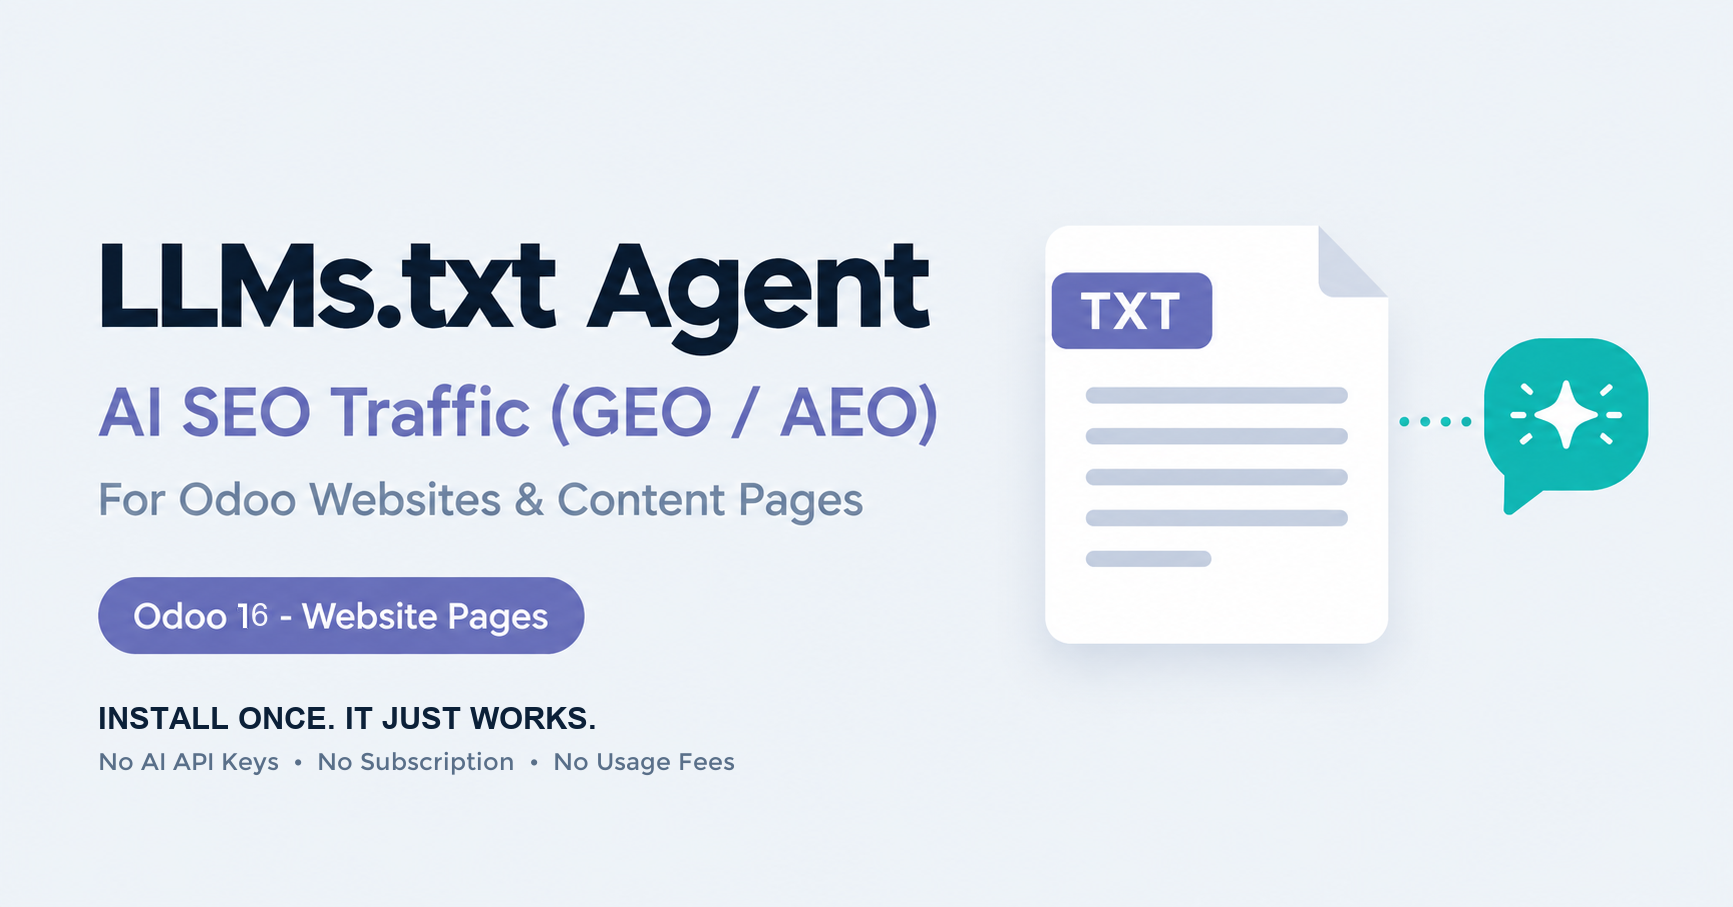
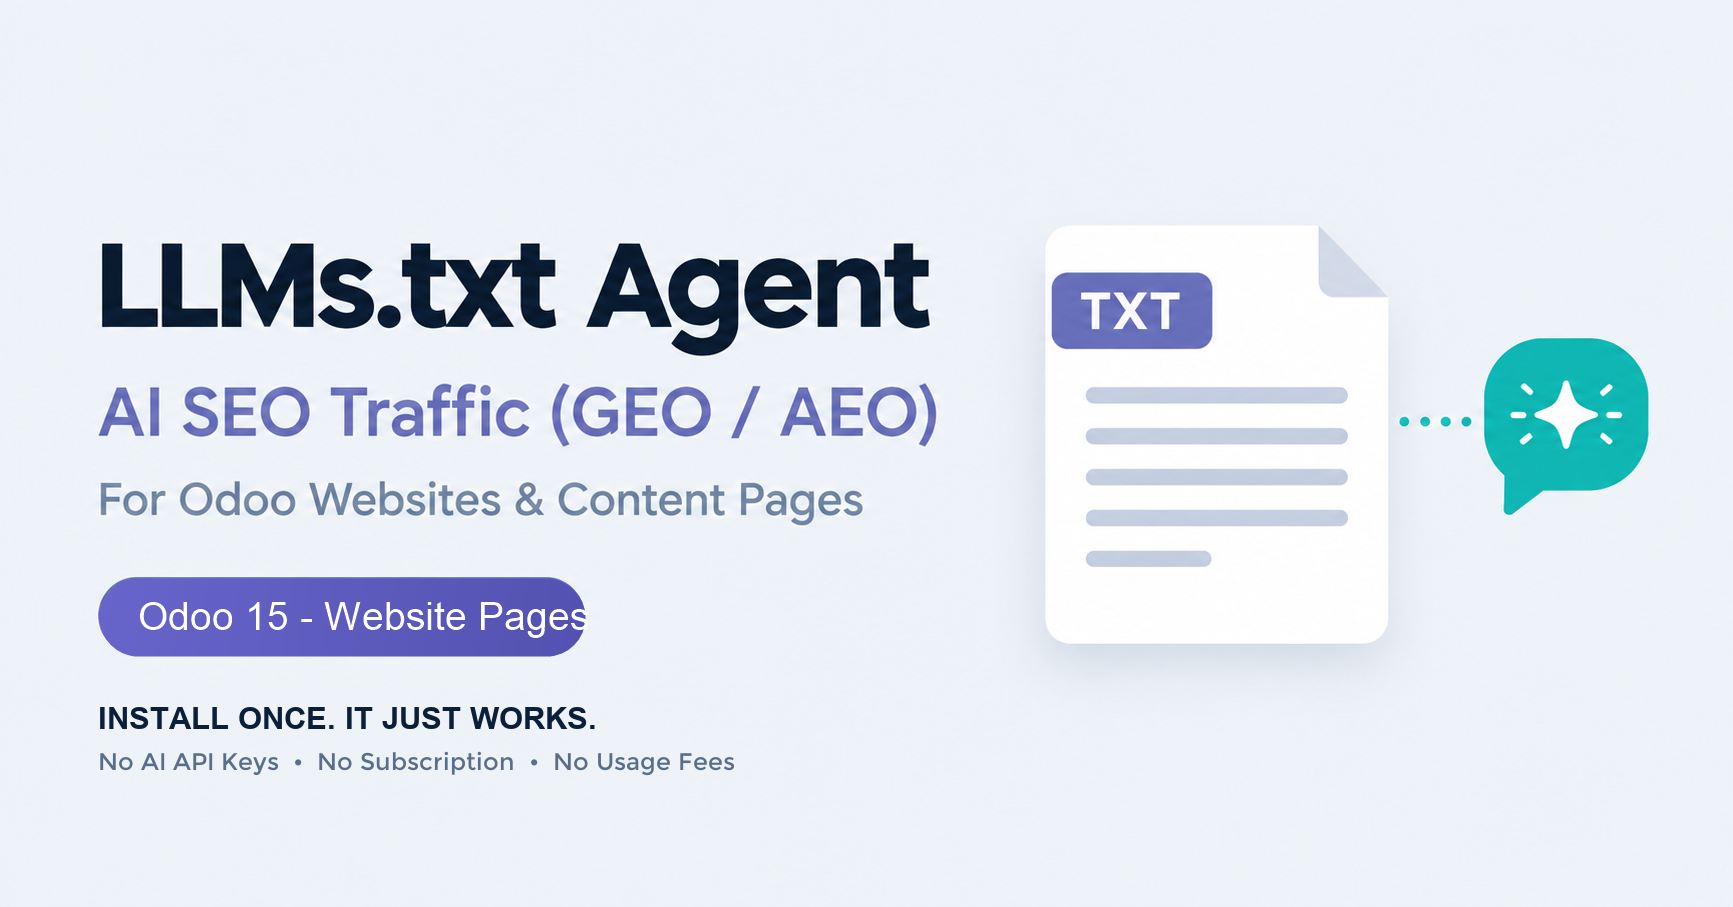
Add Odoo 15 compatibility

Changed region(s): [[0.0623, 0.6174, 0.3428, 0.7409]]

diff --git a/llms_txt_agent/static/description/index.html b/llms_txt_agent/static/description/index.html
@@ -19,7 +19,7 @@
             <span class="badge bg-primary px-3 py-2 fs-6 me-1">GEO</span>
             <span class="badge bg-primary px-3 py-2 fs-6 me-1">AEO</span>
             <span class="badge bg-info px-3 py-2 fs-6 me-1">llms.txt Standard</span>
-            <span class="badge bg-secondary px-3 py-2 fs-6 me-1">Odoo 16 &mdash; Website Pages</span>
+            <span class="badge bg-secondary px-3 py-2 fs-6 me-1">Odoo 15 &mdash; Website Pages</span>
             <span class="badge bg-dark px-3 py-2 fs-6">By Asad Ali &mdash; Softosmith</span>
         </div>
 
@@ -418,7 +418,7 @@
                 <tbody>
                     <tr>
                         <td class="fw-bold" style="width: 34%;">Odoo versions</td>
-                        <td>16.0 &mdash; this listing is the Odoo 16 branch, and Community
+                        <td>15.0 &mdash; this listing is the Odoo 15 branch, and Community
                             is its target. The module ships no
                             Enterprise-only code and needs no Enterprise features, but
                             Enterprise editions have not been separately verified.</td>

diff --git a/llms_txt_agent/models/res_website.py b/llms_txt_agent/models/res_website.py
@@ -130,7 +130,7 @@ class Website(models.Model):
 
         Core precedent: ``website_page.py`` treats a page as publicly readable
         when it is published, ``website_indexed``, not password/signed-in-only
-        and passes its group check (``odoo16/addons/website/models/website_page.py:223-240``).
+        and passes its group check.
 
         ``visibility`` is written as an *allow-list* of "public" rather than as a
         deny-list of the three bad values, so a visibility mode added by a later
@@ -273,63 +273,21 @@ class Website(models.Model):
         return '\n\n---\n\n'.join(docs) + '\n'
 
     def _llms_cache_read(self, field):
-        """Read a cache column under *exactly* the language being served.
+        """Read the cache value for exactly the language being served.
 
-        This is the part QA-11 hinged on.  ``llm_txt_cache`` is
-        ``translate=True``, i.e. one jsonb column keyed by language code, and a
-        normal ORM read of a translated field **falls back to en_US** when the
-        current key is missing -- ``Field.get_translation_fallback_langs``
-        (``odoo16/odoo/fields.py:1799-1806``) returns ``('fr_FR', 'en_US')`` for
-        French, and the read walks that chain.  So ``if not
-        self.llm_txt_cache`` was never a per-language cold check: a French
-        crawler got a *cache hit* on the English document and regenerated
-        nothing, forever.  The question has to be asked of the one key the
-        response is about to serve.
-
-        ``field._get_stored_translations()`` is used rather than a hand-written
-        ``SELECT col->>%s`` because it **flushes the record first** -- the helper
-        calls ``record.flush_recordset([self.name])`` before its own SELECT
-        (``odoo16/odoo/fields.py:1783-1797``), and raw SQL does not, so an
-        unflushed read would serve a document from before the last save.
+        Odoo 15 stores translated field values in ``ir.translation`` rather than
+        the JSONB columns introduced in Odoo 16. Reading in the validated language
+        context lets the ORM resolve the matching translation normally.
         """
         self.ensure_one()
         lang = self._llms_lang_code()
-        translations = self._fields[field]._get_stored_translations(self.sudo()) or {}
-        return translations.get(lang) or False
+        return self.sudo().with_context(lang=lang)[field] or False
 
     def _llms_cache_store(self, field, content):
-        """Store one language's document under exactly its own jsonb key.
-
-        A plain ORM write cannot do that on this branch.  When the value being
-        merged carries no ``en_US`` key, ``BaseModel._write()`` supplies one
-        itself -- it prepends ``{'en_US': <first written value>}`` to the column
-        (``odoo16/odoo/models.py:4551-4560``), which is meant to seed the
-        fallback language on a fresh record.  Applied to a cold cache column it
-        files the *French* document under ``en_US`` as well, and the next English
-        crawler then takes a cache hit on French text -- QA-11 with the two
-        languages swapped, and invisible in single-language testing because the
-        English pass always runs first by accident.
-
-        ``update_field_translations()`` takes the whole language map, so the
-        English key is carried along instead of being invented from whatever the
-        request happened to generate (``odoo16/odoo/models.py:3603-3610``).  An
-        empty string is what a language that has never been generated looks like
-        here: ``_llms_cache_read()`` reads it back as cold, and the next crawler
-        for that language regenerates properly.
-        """
+        """Store one language's cache through Odoo 15's translation ORM."""
         self.ensure_one()
-        sudo = self.sudo()
         lang = self.env.context.get('lang') or LLM_FALLBACK_LANG
-        stored = self._fields[field]._get_stored_translations(sudo) or {}
-        served = set(self._llms_cache_languages())
-        translations = {
-            code: value
-            for code, value in stored.items()
-            if code in served and isinstance(value, str)
-        }
-        translations.setdefault('en_US', '')
-        translations[lang] = content
-        sudo.update_field_translations(field, translations)
+        self.sudo().with_context(lang=lang).write({field: content})
 
     def get_llms_txt_content(self):
         """Returns llms.txt string, utilizing cache when enabled.
@@ -409,9 +367,8 @@ class Website(models.Model):
         -- and on a multi-language site that is the whole point of the cache.
 
         ``_llms_cache_languages()`` is a set, so the pass order is otherwise
-        arbitrary; English goes first because it is the key Odoo 16's merge
-        invents when a write lands on a column without one (``_llms_cache_store``
-        pins it, this just keeps the two in agreement).
+        arbitrary; English goes first because it is Odoo's source language and
+        other values are stored as translations in Odoo 15.
         """
         for website in self:
             languages = sorted(website._llms_cache_languages(),
@@ -439,8 +396,7 @@ class Website(models.Model):
                 # runs on the transient settings record, whose related field was
                 # read once when the form was built and never re-read.  A
                 # display_notification action returns ``params['next']`` to the
-                # action service (odoo16/addons/web/static/src/webclient/actions/
-                # client_actions.js:25), so this reloads the screen after the
+                # action service, so this reloads the screen after the
                 # toast instead of leaving the label stale.
                 'next': {
                     'type': 'ir.actions.client',
@@ -508,22 +464,17 @@ class Website(models.Model):
     def _llms_lang_code(self):
         """Resolve the one language code this website's document is served in.
 
-        QA-11 / QA-24.  Under HTTP the context language already *is* the
-        negotiated one -- ``http_routing`` puts ``request.lang`` into the context
-        in ``_frontend_pre_dispatch()`` (``odoo16/addons/http_routing/models/ir_http.py:584-587``),
-        after trying the URL, the ``frontend_lang`` cookie, then the session
-        language derived from ``Accept-Language``.  So reading the context is
-        enough, and this model stays free of ``odoo.http``.
+        QA-11 / QA-24. Under HTTP the context language is already the negotiated
+        frontend language, so reading the context is enough and this model stays
+        free of ``odoo.http``.
 
         Every candidate is validated against *active* ``res.lang`` rows because
         ``Environment.lang`` raises UserError for an unknown code: without that
         check a crawler sending ``Accept-Language: de`` on a site that has no
         German would turn a 200 into a 500.
 
-        Odoo 16 has no ``Lang._get_code()``/``Lang._get_active_by()`` (those
-        helpers arrive in 18.0), and its ``Lang._lang_get()`` is not cached, so
-        the active-test search below is written against the ORM instead.  It is
-        the same question asked the same way: is this an active language?
+        Odoo 15 has no ``Lang._get_code()``/``Lang._get_active_by()`` helpers, so
+        the active-test search below is written against the ORM instead.
         """
         self.ensure_one()
         Lang = self.env['res.lang'].sudo()
@@ -557,30 +508,14 @@ class Website(models.Model):
         return sorted(codes)
 
     def _invalidate_llms_cache(self):
-        """Helper to clear cached documents when underlying content changes.
+        """Clear cached documents and their Odoo 15 translations.
 
-        The timestamp is cleared *with* the documents (FINDINGS D-E).  It used to
-        survive, so Settings kept showing a confident, seconds-old "Cache Last
-        Rebuilt" for a cache that no longer existed -- which is exactly how the
-        crawler outage stayed invisible to the site owner.
-
-        The sweep is per language (FINDINGS D-A, QA-11, and the same trap as
-        QA-38).  ``llm_txt_cache`` is ``translate=True``: one jsonb column keyed
-        by language code, so one write must not leave the languages nobody is
-        looking at holding a stale document forever.  On this branch the loop is
-        belt-and-braces -- a falsy value takes the early return in
-        ``Field.write`` (``odoo16/odoo/fields.py:1816-1819``) and NULLs the whole
-        column, so the first pass already clears every language -- but the
-        per-key merge that a truthy write goes through
-        (``odoo16/odoo/models.py:4551-4560``) is exactly why iterating, rather
-        than writing once in the current context, is the form that stays correct
-        wherever the column is updated key by key.
+        A falsy write clears the source value and all ``ir.translation`` rows for
+        these translated fields, so one write invalidates every language.
         """
-        sudo_websites = self.sudo()
-        for code in self._llms_cache_languages():
-            sudo_websites.with_context(lang=code).write({
-                'llm_txt_cache': False,
-                'llm_full_txt_cache': False,
-                'llm_page_cache': False,
-            })
-        sudo_websites.write({'llm_cache_last_updated': False})
+        self.sudo().write({
+            'llm_txt_cache': False,
+            'llm_full_txt_cache': False,
+            'llm_page_cache': False,
+            'llm_cache_last_updated': False,
+        })

diff --git a/llms_txt_agent/controllers/main.py b/llms_txt_agent/controllers/main.py
@@ -26,10 +26,8 @@ class WebsiteLlmController(http.Controller):
       place is precisely how "Cached (Daily)" ended up promising an hour, and how
       ``/llms.md`` ended up with no ``Cache-Control`` at all.
 
-    ``save_session=False`` on all five routes (QA-36): these documents are
-    anonymous, host-resolved and stateless, yet every crawler hit was getting a
-    fresh 7-day ``session_id`` cookie *and* a row in the session store -- see
-    ``tests/test_http_contract.py`` for the investigation.
+    ``save_session=False`` keeps anonymous crawler requests stateless and avoids
+    creating a session cookie for each document fetch.
     """
 
     # -- one place for the contract --------------------------------------
@@ -103,11 +101,11 @@ class WebsiteLlmController(http.Controller):
         lang = website._llms_lang_code()
         # ``/home.md`` names the homepage, and Odoo's homepage URL is a setting, not
         # the constant ``/``: core resolves it the same way, as
-        # ``website.homepage_url or '/'`` (``odoo16/addons/website/models/website_page.py:48-51``).
+        # ``website.homepage_id.url or '/'`` on Odoo 15.
         # Hardcoding ``/`` meant that on a site whose homepage is ``/welcome`` the
         # alias looked for a page at ``/`` -- and 404'd, or served some other
         # record that happened to own that URL.
-        page_url = ((website.homepage_url or '/') if page_path == 'home'
+        page_url = ((website.homepage_id.url or '/') if page_path == 'home'
                     else '/%s' % page_path.strip('/'))
         page = website._get_llm_exportable_page(page_url=page_url)
         if not page:

diff --git a/llms_txt_agent/models/llms_http.py b/llms_txt_agent/models/llms_http.py
@@ -188,11 +188,9 @@ def response_headers(content, content_type, cache_control, lang=None,
     if lang:
         # QA-24: the document is per-language, so a shared cache may not reuse it
         # across languages.  ``Content-Language`` describes what we sent.  ``Vary``
-        # has to name *both* headers because in Odoo 16 the language of a frontend
-        # response does not come from Accept-Language at all -- http_routing picks
-        # the URL prefix, then the ``frontend_lang`` cookie, then the context, then
-        # the website default (``odoo16/addons/http_routing/models/ir_http.py:399-402``
-        # and ``:443-448``), and nothing in core reads Accept-Language.  Varying on
+        # has to name *both* headers because frontend language resolution can use
+        # the URL prefix and the ``frontend_lang`` cookie, not only
+        # Accept-Language.  Varying on
         # it alone would still let a CDN answer a French crawler with the English
         # body it stored for the crawler before it, which is the exact outage QA-24
         # was written to prevent.

diff --git a/llms_txt_agent/__manifest__.py b/llms_txt_agent/__manifest__.py
@@ -4,7 +4,7 @@
 
 {
     'name': 'LLMs.txt Agent: Website Pages AI SEO (GEO/AEO for ChatGPT, Gemini, Perplexity)',
-    'version': '16.0.1.2.0',
+    'version': '15.0.1.2.0',
     'category': 'Website/Website',
     'summary': 'Publish your website pages as AI SEO / GEO / AEO llms.txt & Markdown that ChatGPT, Gemini and Perplexity can read.',
     'description': """
@@ -97,7 +97,6 @@ Developed by Asad Ali at Softosmith (https://softosmith.com).
         'data/ir_cron_data.xml',
         'views/res_config_settings_views.xml',
         'views/website_page_views.xml',
-        'views/website_page_properties_views.xml',
     ],
     'images': [
         'static/description/banner.png',

diff --git a/llms_txt_agent/models/__init__.py b/llms_txt_agent/models/__init__.py
@@ -7,6 +7,6 @@ from . import llms_http
 from . import res_website
 from . import res_config_settings
 from . import website_page
-# No website_page_properties on this branch: Odoo 16 has no website.page.properties
-# transient; its Page Properties dialog form is a website.page view.
+# Odoo 15's frontend Page Properties dialog is a legacy JavaScript/QWeb widget,
+# so these fields are configured from the backend website.page form instead.
 from . import ir_ui_view

diff --git a/llms_txt_agent/README.md b/llms_txt_agent/README.md
@@ -1,7 +1,7 @@
-# LLMs.txt Agent: Website Pages AI SEO for Odoo 16
+# LLMs.txt Agent: Website Pages AI SEO for Odoo 15
 
 [![License: OPL-1](https://img.shields.io/badge/License-OPL--1-blue.svg)](LICENSE)
-[![Odoo Version](https://img.shields.io/badge/Odoo-16.0-purple.svg)](https://www.odoo.com)
+[![Odoo Version](https://img.shields.io/badge/Odoo-15.0-purple.svg)](https://www.odoo.com)
 [![Developer](https://img.shields.io/badge/Developed%20By-Asad%20Ali%20%40%20Softosmith-orange.svg)](https://softosmith.com)
 
 Developed by **Asad Ali** at **[Softosmith.com](https://softosmith.com)**.
